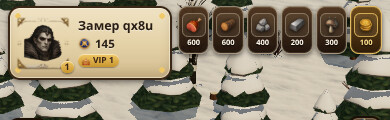
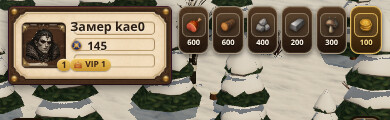
Карточка лорда: подложка-картинка m3 вместо CSS, слот аватара по измерению подложки

Changed region(s): [[0.0, 0.05, 0.4615, 0.775]]

diff --git a/apps/client/src/hud.css b/apps/client/src/hud.css
@@ -34,7 +34,7 @@
   z-index: 40;
   display: grid;
   /* Один ряд во всех ориентациях: профиль сжимается до 38%, освобождая место ресурсам. */
-  grid-template-columns: minmax(0, min(216px, 42vw)) minmax(0, 1fr);
+  grid-template-columns: minmax(0, min(212px, 42vw)) minmax(0, 1fr);
   gap: 6px;
   align-items: start;
 }
@@ -52,41 +52,25 @@
 }
 
 /* Карточка лорда по концепту C1 (документ 32 §11).
-   Плашку и рамку профиля собираем в CSS: так края гарантированно ровные и симметричные, а рамка профиля
-   остаётся сменной — варианты по data-frame. Картинками идут только портрет и рамка аватара: они
-   прозрачные и меняются независимо от лица. */
+   Геометрию задаёт подложка lord-plate.png (1566×754): рамка профиля, костяное поле, золотые уголки.
+   Положение аватара не угадано, а измерено по самой подложке: тёмное поле под аватар занимает
+   x 8,3–35 % и y 22,5–77,5 %, это квадрат 418×415 пикселей. Портрет и рамка аватара — отдельные
+   прозрачные слои поверх, поэтому рамки меняются наградами, а лицо не перерисовывается. */
 .hud-lord {
-  --card-h: 74px;
-  --avatar: 52px;
   position: relative;
-  height: var(--card-h);
-  display: grid;
-  grid-template-columns: var(--avatar) minmax(0, 1fr);
-  align-items: center;
-  column-gap: 9px;
-  padding: 0 10px 0 7px;
-  border-radius: 12px;
-  border: 2px solid #3a2716; /* тёмное дерево */
-  background: linear-gradient(180deg, #f0e3c4 0%, #e3d0a5 55%, #d2bc8f 100%);
-  box-shadow:
-    inset 0 0 0 1px rgba(255, 250, 235, 0.55),
-    inset 0 -6px 10px rgba(90, 60, 30, 0.18),
-    0 2px 6px rgba(0, 0, 0, 0.5);
+  width: 100%;
+  aspect-ratio: 1566 / 754;
+  background-repeat: no-repeat;
+  background-position: center;
+  background-size: 100% 100%;
   color: var(--hud-ink);
+  filter: drop-shadow(0 2px 5px rgba(0, 0, 0, 0.55));
 }
 
-/* Рамка профиля — сменный декор: золотые уголки базового варианта. */
-.hud-lord[data-frame="base"]::before {
-  content: "";
-  position: absolute;
-  inset: 1px;
-  border-radius: 10px;
-  pointer-events: none;
-  background:
-    radial-gradient(circle at 7px 7px, rgba(240, 200, 102, 0.95) 0 2.5px, rgba(0, 0, 0, 0) 3px),
-    radial-gradient(circle at calc(100% - 7px) 7px, rgba(240, 200, 102, 0.95) 0 2.5px, rgba(0, 0, 0, 0) 3px),
-    radial-gradient(circle at 7px calc(100% - 7px), rgba(240, 200, 102, 0.95) 0 2.5px, rgba(0, 0, 0, 0) 3px),
-    radial-gradient(circle at calc(100% - 7px) calc(100% - 7px), rgba(240, 200, 102, 0.95) 0 2.5px, rgba(0, 0, 0, 0) 3px);
+/* Рамка профиля — сменный декор: базовая подложка. Наградные рамки добавляются своими вариантами
+   .hud-lord[data-frame="<id>"] и меняют только фон, не трогая вёрстку и портрет. */
+.hud-lord[data-frame="base"] {
+  background-image: url("icons/lord-plate.png");
 }
 
 .hud-top > .hud-lord {
@@ -94,22 +78,24 @@
   max-width: none;
 }
 
+/* Слот аватара — ровно по тёмному полю подложки. */
 .hud-lord .portrait {
-  position: relative;
-  width: var(--avatar);
-  height: var(--avatar);
+  position: absolute;
+  left: 8.3%;
+  top: 22.5%;
+  width: 26.7%;
+  height: 55%;
   display: block;
 }
 
 .hud-lord .portrait .face {
   /* max-width снимаем: Tailwind задаёт img { max-width: 100% }, иначе портрет расползается на весь слот
-     и перекрывает рамку. У картинок размер задаём явно: у замещаемых элементов height:auto берёт
-     собственную высоту, а не выводится из отступов. */
+     и перекрывает рамку; размер задаём явно — у замещаемых элементов height:auto берёт свою высоту. */
   position: absolute;
-  top: 9%;
-  left: 9%;
-  width: 82%;
-  height: 82%;
+  top: 6%;
+  left: 6%;
+  width: 88%;
+  height: 88%;
   max-width: none;
   object-fit: cover;
   object-position: center top;
@@ -119,10 +105,10 @@
 /* Рамка аватара — сменный декор поверх портрета. */
 .hud-lord .portrait .frame {
   position: absolute;
-  top: -6%;
-  left: -6%;
-  width: 112%;
-  height: 112%;
+  top: -4%;
+  left: -4%;
+  width: 108%;
+  height: 108%;
   max-width: none;
   object-fit: contain;
   pointer-events: none;
@@ -131,8 +117,8 @@
 /* Уровень — плашкой в углу аватара: строка имени остаётся свободной (требование заказчика). */
 .hud-lord .portrait .lvl-tag {
   position: absolute;
-  right: -9%;
-  bottom: -8%;
+  right: -12%;
+  bottom: -10%;
   font-style: normal;
   font-size: 9px;
   font-weight: 800;
@@ -146,14 +132,20 @@
 }
 
 .hud-lord .rows {
+  position: absolute;
+  left: 38%;
+  right: 5%;
+  top: 16%;
+  bottom: 16%;
   display: grid;
-  grid-template-rows: auto auto auto;
+  grid-template-rows: repeat(3, 1fr);
   align-content: center;
   gap: 2px;
   min-width: 0;
 }
 
 .hud-lord .rows .name {
+  align-self: center;
   font-size: 12.5px;
   line-height: 1.1;
   white-space: nowrap;
@@ -171,6 +163,7 @@
 .hud-lord .power-row img {
   width: 13px;
   height: 13px;
+  max-width: none;
   object-fit: contain;
   filter: drop-shadow(0 1px 1px rgba(0, 0, 0, 0.25));
 }
@@ -214,6 +207,7 @@
 .hud-lord .vipb img {
   width: 10px;
   height: 10px;
+  max-width: none;
   object-fit: contain;
 }
 

diff --git a/STATUS.md b/STATUS.md
@@ -749,3 +749,9 @@ A4 (квадратная рамка аватара) — профиль шире,
    `img { max-width: 100%; height: auto }` растягивал портрет на весь слот, и лицо перекрывало рамку —
    размеры слоям заданы явно, `max-width: none`. Замер в браузере (`tools/shots/measure-hud.ts`): карточка
    164×74, аватар 52×52, портрет 43×43, рамка 58×58, пересечений с ресурсами нет.
+**Подложка карточки возвращена картинкой (03.10.2026):** вместо CSS-замены сгенерированы три подложки на
+гарантированно вырезаемом пурпурном фоне — [sheet-plates.jpg](docs/game/ui/concepts/phase-07-portrait/sheet-plates.jpg).
+Все три проверены числом: края прямые (разброс 0), симметрия точная. Выбрана **m3**: её поле под аватар — квадрат
+418×415 (у m1 — 0,93, у m2 — 0,63). Положение слота не угадано, а измерено по подложке (x 8,3–35 %, y 22,5–77,5 %);
+замер в браузере: карточка 164×79, слот 44×43, портрет 38×38, рамка 47×47. Рамка профиля переведена на
+`[data-frame]` — наградные рамки добавятся своими вариантами фона.
